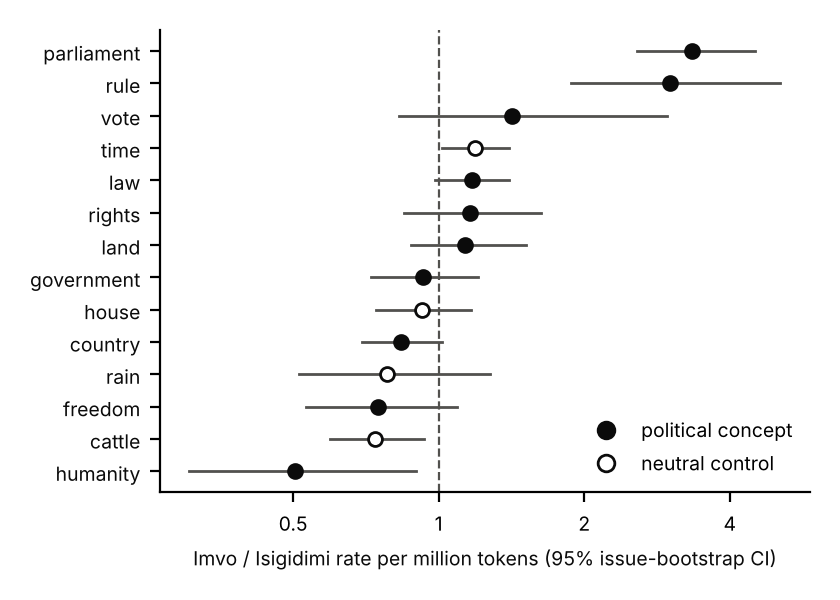
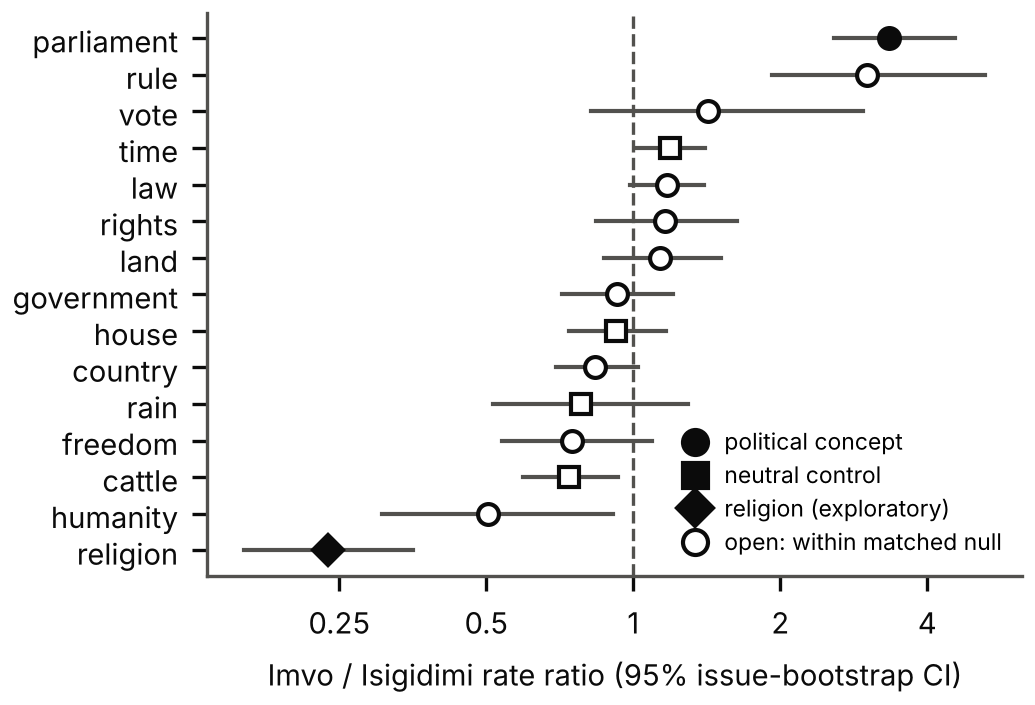
One plot per image: regenerate figures at native size
Replace the multi-panel figures with six single-plot images, each drawn at the size
it is used in the paper; paper.tex places them side by side without rescaling.

Claude-Session: https://claude.ai/code/session_01HjGapPgXs2nXn4XaJz3uNP

Changed region(s): [[0.0, 0.03, 0.9905, 0.99], [0.7429, 0.87, 0.7738, 0.9]]

diff --git a/src/07_figures.py b/src/07_figures.py
@@ -1,4 +1,5 @@
-"""Figures for the write-up (salience + framing per concept, global null, fertility)."""
+"""Figures for the write-up: ONE plot per image, each drawn at the size it is used in the paper
+(no rescaling): half-page plots 3.45 x 2.5 in, third-page plots 2.3 x 1.8 in."""
 import numpy as np
 import pandas as pd
 import matplotlib
@@ -7,130 +8,114 @@ import matplotlib.pyplot as plt
 
 from common import OUT
 
-INK, MUTED, GRID = "#0b0b0b", "#52514e", "#e6e5e1"
-BLUE, ORANGE, AQUA = "#2a78d6", "#eb6834", "#1baf7a"      # validated categorical slots 1-3
+INK, MUTED = "#0b0b0b", "#52514e"
+BLUE, ORANGE = "#2a78d6", "#eb6834"          # validated categorical slots 1-2 (Isigidimi, Imvo)
 plt.rcParams.update({"font.size": 7, "axes.edgecolor": MUTED, "axes.labelcolor": INK,
                      "xtick.color": INK, "ytick.color": INK, "axes.spines.top": False,
-                     "axes.spines.right": False})
+                     "axes.spines.right": False, "savefig.dpi": 300})
+MARK = {"theory": "o", "control": "s", "exploratory": "D"}
 
 
-def two_part():
+def _salience_table():
     sal = pd.read_csv(OUT / "salience.csv")
-    fc = pd.read_csv(OUT / "framing_concepts.csv")
-    fc = fc[fc.measure == "profile"].set_index("concept")
     sal["group"] = sal.concept.str.split(":").str[0]
     sal["name"] = sal.concept.str.split(":").str[1]
-    order = sal.sort_values("ratio")["name"].tolist()          # bottom -> top
-    mk = {"theory": "o", "control": "s", "exploratory": "D"}
-    fig, (a, b) = plt.subplots(1, 2, figsize=(7.0, 2.0), dpi=200, sharey=True, gridspec_kw={"wspace": 0.08})
+    return sal, sal.sort_values("ratio")["name"].tolist()          # bottom -> top
+
+
+def salience():
+    sal, order = _salience_table()
+    fig, ax = plt.subplots(figsize=(3.45, 2.35), layout="constrained")
     for i, n in enumerate(order):
         r = sal[sal.name == n].iloc[0]
-        sig = r.pseudo_p < 0.05
-        a.plot([r.ci_lo, r.ci_hi], [i, i], color=MUTED, lw=1)
-        a.plot(r.ratio, i, mk[r.group], ms=5, mfc=INK if sig else "white", mec=INK, mew=1)
+        ax.plot([r.ci_lo, r.ci_hi], [i, i], color=MUTED, lw=1)
+        ax.plot(r.ratio, i, MARK[r.group], ms=5, mfc=INK if r.pseudo_p < 0.05 else "white", mec=INK, mew=1)
+    ax.axvline(1, color=MUTED, lw=0.8, ls="--")
+    ax.set_xscale("log"); ax.set_xticks([0.25, 0.5, 1, 2, 4]); ax.set_xticklabels(["0.25", "0.5", "1", "2", "4"])
+    ax.minorticks_off()
+    ax.set_yticks(range(len(order))); ax.set_yticklabels(order)
+    ax.set_xlabel("Imvo / Isigidimi rate ratio (95% issue-bootstrap CI)")
+    handles = [plt.Line2D([], [], ls="", marker=m, mfc=INK, mec=INK, label=l) for l, m in
+               (("political concept", "o"), ("neutral control", "s"), ("religion (exploratory)", "D"))]
+    handles.append(plt.Line2D([], [], ls="", marker="o", mfc="white", mec=INK, label="open: within matched null"))
+    ax.legend(handles=handles, loc="lower right", frameon=False, fontsize=5.5, handletextpad=0.3, labelspacing=0.25)
+    fig.savefig(OUT / "fig_salience.png")
+
+
+def framing():
+    sal, order = _salience_table()
+    fc = pd.read_csv(OUT / "framing_concepts.csv")
+    fc = fc[fc.measure == "profile"].set_index("concept")
+    fig, ax = plt.subplots(figsize=(3.45, 2.35), layout="constrained")
+    for i, n in enumerate(order):
+        g = sal[sal.name == n].iloc[0].group
         if n in fc.index:
             f = fc.loc[n]
-            b.plot(f.percentile, i, mk[r.group], ms=5, mfc=INK if (f.p_greater < 0.05) else "white", mec=INK, mew=1)
+            ax.plot(f.percentile, i, MARK[g], ms=5, mfc=INK if f.p_greater < 0.05 else "white", mec=INK, mew=1)
         else:
-            b.text(0.5, i, "too rare / seed word", ha="center", va="center", fontsize=6, color=MUTED, style="italic",
-                   bbox=dict(fc="white", ec="none", pad=1.5))
-    a.axvline(1, color=MUTED, lw=0.8, ls="--"); b.axvline(0.5, color=MUTED, lw=0.8, ls="--")
-    a.set_xscale("log"); a.set_xticks([0.25, 0.5, 1, 2, 4]); a.set_xticklabels(["0.25", "0.5", "1", "2", "4"]); a.minorticks_off()
-    a.set_yticks(range(len(order))); a.set_yticklabels(order, color=INK)
-    a.set_xlabel("Salience: Imvo / Isigidimi rate\n(95% issue-bootstrap CI)")
-    b.set_xlim(-0.02, 1.02); b.set_xlabel("Framing: percentile of the concept's profile shift\namong 2000 frequency-matched word sets")
-    a.set_title("(a) How often", loc="left", fontsize=7.5, color=INK); b.set_title("(b) How differently", loc="left", fontsize=7.5, color=INK)
-    b.tick_params(axis="y", left=False)
-    fig.savefig(OUT / "fig_two_part.png", bbox_inches="tight")
+            ax.text(0.5, i, "too rare / seed word", ha="center", va="center", fontsize=5.5, color=MUTED, style="italic",
+                    bbox=dict(fc="white", ec="none", pad=1.2))
+    ax.axvline(0.5, color=MUTED, lw=0.8, ls="--")
+    ax.set_xlim(-0.02, 1.02); ax.set_ylim(-0.7, len(order) - 0.3)
+    ax.set_yticks(range(len(order))); ax.set_yticklabels(order)
+    ax.set_xlabel("Percentile of profile shift among 2000\nfrequency-matched word sets")
+    fig.savefig(OUT / "fig_framing.png")
+
+
+def yearly(concept, fname, labels):
+    d = pd.read_csv(OUT / "salience_yearly.csv")
+    fig, ax = plt.subplots(figsize=(2.3, 1.6), layout="constrained")
+    for paper, col in (("ISIG", BLUE), ("IMVO", ORANGE)):
+        g = d[(d.paper == paper) & (d.concept == concept)].set_index("year").reindex(range(1870, 1895))
+        ax.fill_between(g.index, g.ci_lo, g.ci_hi, color=col, alpha=0.15, lw=0)
+        ax.plot(g.index, g.per_M, "-o", color=col, lw=1.0, ms=2)
+    ax.axvspan(1880.5, 1883.5, color="#c3c2b7", alpha=0.45, lw=0)
+    ax.axvspan(1883.5, 1884.75, color=BLUE, alpha=0.12, lw=0)
+    ax.text(1882, ax.get_ylim()[1] * 0.97, "Jabavu 1881-83\n(unconfirmed)", rotation=90, fontsize=5, color=MUTED,
+            ha="center", va="top")
+    ax.text(*labels["ISIG"], "Isigidimi", fontsize=6.5, color=INK)
+    ax.text(*labels["IMVO"], "Imvo", fontsize=6.5, color=INK)
+    ax.set_xlim(1869, 1896); ax.set_xticks([1870, 1880, 1890]); ax.tick_params(labelsize=6.5)
+    ax.set_ylabel("per million tokens", fontsize=6.5)
+    fig.savefig(OUT / fname)
+
+
+def tokenizer():
+    f = pd.read_csv(OUT / "fertility.csv")
+    cond = ["modern", "modern, historical spelling", "Isigidimi 1884-88"]
+    fig, ax = plt.subplots(figsize=(2.3, 1.6), layout="constrained")
+    for tok, lab, m_ in (("serengeti", "Serengeti", "s"), ("xlm-roberta-base", "XLM-R", "o"), ("mbert-cased", "mBERT", "^")):
+        s_ = f[f.tokenizer == tok].set_index("condition").loc[cond, "subwords_per_100_chars"]
+        pct = 100 * (s_ / s_.iloc[0] - 1)
+        ax.plot(range(3), pct.values, "-" + m_, color=INK, lw=1, ms=3.5)
+        ax.text(2.1, pct.values[2], lab, fontsize=6.5, color=INK, va="center")
+    ax.axhline(0, color=MUTED, lw=0.6)
+    ax.set_xticks(range(3)); ax.set_xticklabels(["modern", "old\nspelling", "historical"], fontsize=6.5)
+    ax.set_xlim(-0.2, 3.1); ax.tick_params(labelsize=6.5)
+    ax.set_ylabel("subwords per character,\n% vs modern", fontsize=6.5)
+    fig.savefig(OUT / "fig_tokenizer_cost.png")
 
 
 def global_null():
     raw = np.load(OUT / "framing_raw.npz", allow_pickle=True)
     real, null, probe = raw["real_profile"], raw["null_profile"], raw["probe"]
     nm, rm = null[:, probe].mean(1), real[:, probe].mean(1)
-    fig, ax = plt.subplots(figsize=(3.3, 1.9), dpi=200)
+    fig, ax = plt.subplots(figsize=(3.45, 2.0), layout="constrained")
     lo, hi = min(nm.min(), rm.min()), max(nm.max(), rm.max())
     ax.hist(nm, bins=np.linspace(lo - 0.01, hi + 0.01, 40), color="#c3c2b7", edgecolor="white", lw=0.5)
     for v in rm:
         ax.axvline(v, color=INK, lw=0.9)
     top = ax.get_ylim()[1]
-    ax.set_ylim(0, top * 1.35)
-    ax.text(nm.mean(), top * 1.3, "permutation null\n(50 permutations)", fontsize=6.5, color=MUTED, va="top", ha="center")
-    ax.set_xlim(lo - 0.02, hi + 0.075)
+    ax.set_xlim(lo - 0.02, hi + 0.075); ax.set_ylim(0, top * 1.35)
+    ax.text(lo - 0.012, top * 1.3, "permutation null\n(50 permutations)", fontsize=6.5, color=MUTED, va="top", ha="left")
     ax.text(hi + 0.008, top * 1.3, "real: 10\nImvo draws", fontsize=6.5, color=INK, va="top", ha="left")
     ax.set_xlabel("Mean profile shift (1 - r) over probe words"); ax.set_ylabel("permutations")
-    fig.savefig(OUT / "fig_global_null.png", bbox_inches="tight")
-
-
-def jabavu():
-    d = pd.read_csv(OUT / "salience_yearly.csv")
-    fig, axes = plt.subplots(1, 2, figsize=(6.8, 2.4), dpi=200, sharex=True)
-    for ax, concept, title in zip(axes, ("religion", "parliament"), ("(a) religious vocabulary", "(b) parliamentary vocabulary")):
-        for paper, col, lab in (("ISIG", BLUE, "Isigidimi"), ("IMVO", ORANGE, "Imvo")):
-            g = d[(d.paper == paper) & (d.concept == concept)].set_index("year").reindex(range(1870, 1895))
-            ax.fill_between(g.index, g.ci_lo, g.ci_hi, color=col, alpha=0.15, lw=0)
-            ax.plot(g.index, g.per_M, "-o", color=col, lw=1.1, ms=2.5)
-            last = g.per_M.last_valid_index()
-            ax.text(last + 0.4, g.per_M[last], lab, fontsize=6.5, color=INK, va="center")
-        ax.axvspan(1880.5, 1883.5, color="#c3c2b7", alpha=0.45, lw=0)
-        ax.set_title(title, loc="left", fontsize=7.5, color=INK)
-        ax.set_xlim(1869, 1898); ax.set_ylabel("per million tokens")
-    axes[0].text(1882, axes[0].get_ylim()[1] * 0.97, "Jabavu's\nyears\n(provisional)", fontsize=5.5, color=MUTED, ha="center", va="top")
-    fig.tight_layout()
-    fig.savefig(OUT / "fig_jabavu.png", bbox_inches="tight")
-
-
-def combo():
-    """Figure 2 of the paper: religion and parliament over time (a, b) and tokenizer cost (c)."""
-    d = pd.read_csv(OUT / "salience_yearly.csv")
-    f = pd.read_csv(OUT / "fertility.csv")
-    fig, axes = plt.subplots(1, 3, figsize=(7.0, 1.45), dpi=200, gridspec_kw={"width_ratios": [1, 1, 0.95], "wspace": 0.42})
-    for ax, concept, title in zip(axes[:2], ("religion", "parliament"), ("(a) religious vocabulary", "(b) parliamentary vocabulary")):
-        for paper, col, lab in (("ISIG", BLUE, "Isigidimi"), ("IMVO", ORANGE, "Imvo")):
-            g = d[(d.paper == paper) & (d.concept == concept)].set_index("year").reindex(range(1870, 1895))
-            ax.fill_between(g.index, g.ci_lo, g.ci_hi, color=col, alpha=0.15, lw=0)
-            ax.plot(g.index, g.per_M, "-o", color=col, lw=1.0, ms=2)
-        ax.axvspan(1880.5, 1883.5, color="#c3c2b7", alpha=0.45, lw=0)
-        ax.axvspan(1883.5, 1884.75, color=BLUE, alpha=0.12, lw=0)
-        pos = {("religion", "ISIG"): (1870.5, 4300), ("religion", "IMVO"): (1888.5, 1300),
-               ("parliament", "ISIG"): (1870.5, 400), ("parliament", "IMVO"): (1890.5, 1250)}
-        ax.text(*pos[(concept, "ISIG")], "Isigidimi", fontsize=6, color=INK)
-        ax.text(*pos[(concept, "IMVO")], "Imvo", fontsize=6, color=INK)
-        ax.set_title(title, loc="left", fontsize=7, color=INK)
-        ax.set_xlim(1869, 1896); ax.set_xticks([1870, 1880, 1890]); ax.tick_params(labelsize=6)
-    axes[0].set_ylabel("per million tokens", fontsize=6.5)
-    ax = axes[2]
-    cond = ["modern", "modern, historical spelling", "Isigidimi 1884-88", "Imvo 1884-88 (draw)"]
-    for tok, lab, m_ in (("serengeti", "Serengeti", "s"), ("xlm-roberta-base", "XLM-R", "o"), ("mbert-cased", "mBERT", "^")):
-        s_ = f[f.tokenizer == tok].set_index("condition").loc[cond, "subwords_per_100_chars"]
-        pct = 100 * (s_ / s_.iloc[0] - 1)
-        ax.plot(range(3), pct.values[:3], "-" + m_, color=INK, lw=1, ms=3.5)
-        ax.text(2.08, pct.values[2], lab, fontsize=6, color=INK, va="center")
-    ax.axhline(0, color=MUTED, lw=0.6)
-    ax.set_xticks(range(3)); ax.set_xticklabels(["modern", "old\nspelling", "historical"], fontsize=6)
-    ax.set_xlim(-0.2, 3.1); ax.tick_params(labelsize=6)
-    ax.set_title("(c) tokenizer cost", loc="left", fontsize=7, color=INK)
-    ax.set_ylabel("subwords/char, % vs modern", fontsize=6.5)
-    fig.savefig(OUT / "fig_combo.png", bbox_inches="tight")
-
-
-def fertility():
-    d = pd.read_csv(OUT / "fertility.csv")
-    cond = ["modern", "modern, historical spelling", "Isigidimi 1884-88", "Imvo 1884-88 (draw)"]
-    labels = ["(a) modern", "(b) modern,\nold spelling", "(c) Isigidimi", "(c) Imvo"]
-    cols = {"xlm-roberta-base": BLUE, "serengeti": ORANGE, "mbert-cased": AQUA}
-    fig, ax = plt.subplots(figsize=(3.3, 2.1), dpi=200)
-    for tok, c in cols.items():
-        s = d[d.tokenizer == tok].set_index("condition").loc[cond, "subwords_per_100_chars"]
-        pct = 100 * (s / s.iloc[0] - 1)
-        ax.plot(range(4), pct.values, "-o", color=c, lw=1.2, ms=4)
-        ax.text(3.08, pct.values[-1], {"xlm-roberta-base": "XLM-R", "serengeti": "Serengeti", "mbert-cased": "mBERT"}[tok],
-                fontsize=6.5, color=INK, va="center")
-    ax.axhline(0, color=MUTED, lw=0.6)
-    ax.set_xticks(range(4)); ax.set_xticklabels(labels, fontsize=6); ax.set_xlim(-0.2, 4.0)
-    ax.set_ylabel("subwords per character,\n% change vs modern")
-    fig.savefig(OUT / "fig_fertility.png", bbox_inches="tight")
+    fig.savefig(OUT / "fig_global_null.png")
 
 
 if __name__ == "__main__":
-    two_part(); global_null(); jabavu(); fertility(); combo(); print("figures saved")
+    salience(); framing()
+    yearly("religion", "fig_religion_by_year.png", {"ISIG": (1885.5, 3400), "IMVO": (1888.5, 1300)})
+    yearly("parliament", "fig_parliament_by_year.png", {"ISIG": (1870.5, 400), "IMVO": (1890.5, 1250)})
+    tokenizer(); global_null()
+    print("figures saved")

diff --git a/paper/paper.tex b/paper/paper.tex
@@ -43,25 +43,28 @@ The IsiXhosa Intellectual Traditions archive \citep{schoots2023} digitises South
 
 \begin{figure*}[t]
 \centering
-\includegraphics[width=0.95\textwidth]{fig_two_part.png}
-\caption{Salience (a) and framing (b). Circles: political concepts; squares: neutral controls; diamond: religion (exploratory); filled = beyond 2000 frequency-matched sets ($p<0.05$). (a) Imvo/Isigidimi rate ratio, 95\% bootstrap CI. (b) Percentile of the concept's profile shift among matched word sets; none is beyond chance. Too-rare concepts and seed words omitted.}
+\includegraphics[width=3.45in]{fig_salience.png}\hfill
+\includegraphics[width=3.45in]{fig_framing.png}
+\caption{Salience (left) and framing (right) of the same concepts. Left: Imvo/Isigidimi rate ratio with 95\% issue-bootstrap CI; filled = beyond 2000 frequency-matched pseudo-concepts ($p<0.05$). Right: percentile of the concept's profile shift among 2000 frequency-matched word sets; none is beyond chance. Too-rare concepts and seed words are omitted.}
 \label{fig:two}
 \end{figure*}
 
 \begin{figure*}[t]
 \centering
-\includegraphics[width=0.95\textwidth]{fig_combo.png}
-\caption{(a,b) Rate per million tokens by year. Grey: Jabavu's Isigidimi years (1881--83; secondary sources, unconfirmed); blue: Isigidimi fortnightly (Jul 1883--Sep 1884); 1886 Isigidimi missing. (c) Subwords per character relative to modern text: aspiration-stripped modern text and historical Isigidimi.}
+\includegraphics[width=2.3in]{fig_religion_by_year.png}\hfill
+\includegraphics[width=2.3in]{fig_parliament_by_year.png}\hfill
+\includegraphics[width=2.3in]{fig_tokenizer_cost.png}
+\caption{Religious (left) and parliamentary (right) vocabulary per million tokens by year (blue: Isigidimi, orange: Imvo; grey: Jabavu's Isigidimi years, secondary sources, unconfirmed; light blue: Isigidimi fortnightly, Jul 1883--Sep 1884; 1886 Isigidimi missing). Right-most: subwords per character relative to modern text for aspiration-stripped modern text (``old spelling'') and historical Isigidimi.}
 \label{fig:two2}
 \end{figure*}
 
 \section{Results}
 \looseness=-1
-\textbf{Salience.} Parliamentary vocabulary is 3.3$\times$ as frequent in Imvo (CI 2.6--4.6; pseudo-concept $p=0.011$); religious vocabulary is four times as frequent in Isigidimi (0.24$\times$, CI 0.16--0.35, $p=0.019$); \emph{mbuso} is borderline ($p=0.064$) and nothing else stands out (Fig.~\ref{fig:two}a). In held-out years religion (0.22$\times$, CI 0.18--0.28, $p=0.007$) and parliament (3.5$\times$, $p=0.017$) replicate; government flips (0.93$\to$0.27) and is not interpreted. Isigidimi's religious vocabulary falls from about 5{,}700 to 800 per million tokens in 1876--83; parliamentary vocabulary is absent until 1883 (Fig.~\ref{fig:two2}a,b).
+\textbf{Salience.} Parliamentary vocabulary is 3.3$\times$ as frequent in Imvo (CI 2.6--4.6; pseudo-concept $p=0.011$); religious vocabulary is four times as frequent in Isigidimi (0.24$\times$, CI 0.16--0.35, $p=0.019$); \emph{mbuso} is borderline ($p=0.064$) and nothing else stands out (Fig.~\ref{fig:two}, left). In held-out years religion (0.22$\times$, CI 0.18--0.28, $p=0.007$) and parliament (3.5$\times$, $p=0.017$) replicate; government flips (0.93$\to$0.27) and is not interpreted. Isigidimi's religious vocabulary falls from about 5{,}700 to 800 per million tokens in 1876--83; parliamentary vocabulary is absent until 1883 (Fig.~\ref{fig:two2}, left and centre).
 
-\textbf{Framing.} Mean profile shift between the papers is 0.383 against a permutation null of 0.263, with every real draw beyond all 50 permutations: the spaces differ systematically. This offset touches almost every word, so words are judged against matched sets, where no single concept is detectable (Fig.~\ref{fig:two}b). Pooled, the electoral words (\emph{palamente}, \emph{voti}, \emph{rulumente}) differ by neighbour Jaccard (0.77 vs 0.55 matched, $p=0.016$) and weakly by profile (0.47 vs 0.39, $p=0.087$). Joining disjunctively written forms leaves the global gap unchanged (0.372 vs null 0.250: a gap of 0.122, against 0.120) but sharpens the pooled electoral result (profile 0.47 vs 0.36, $p=0.012$; Jaccard 0.78 vs 0.52, $p=0.001$); this grouping was chosen after the salience results and is uncorrected. The directional hypothesis fails: political concepts lean $+0.22$ towards religious anchors in Isigidimi vs $+0.04$ for matched words ($p=0.33$), and neutral controls move as much ($+0.19$). \emph{Abantu}, significant against the permutation null alone, is an artefact: its neighbours are its own inflections, identical across papers.
+\textbf{Framing.} Mean profile shift between the papers is 0.383 against a permutation null of 0.263, with every real draw beyond all 50 permutations: the spaces differ systematically. This offset touches almost every word, so words are judged against matched sets, where no single concept is detectable (Fig.~\ref{fig:two}, right). Pooled, the electoral words (\emph{palamente}, \emph{voti}, \emph{rulumente}) differ by neighbour Jaccard (0.77 vs 0.55 matched, $p=0.016$) and weakly by profile (0.47 vs 0.39, $p=0.087$). Joining disjunctively written forms leaves the global gap unchanged (0.372 vs null 0.250: a gap of 0.122, against 0.120) but sharpens the pooled electoral result (profile 0.47 vs 0.36, $p=0.012$; Jaccard 0.78 vs 0.52, $p=0.001$); this grouping was chosen after the salience results and is uncorrected. The directional hypothesis fails: political concepts lean $+0.22$ towards religious anchors in Isigidimi vs $+0.04$ for matched words ($p=0.33$), and neutral controls move as much ($+0.19$). \emph{Abantu}, significant against the permutation null alone, is an artefact: its neighbours are its own inflections, identical across papers.
 
-\textbf{Tokenizers.} Per word, historical text looks cheaper only because its words are shorter (6.2 vs 7.4 characters); per character it costs more (Fig.~\ref{fig:two2}c): relative to modern text, stripped spelling adds 0.8\% for XLM-R and historical text 4.1\%; Serengeti 5.4\% and 12.4\%; mBERT $-0.4\%$ and $+1.7\%$. Spelling explains a fifth of XLM-R's gap and 44\% of Serengeti's.
+\textbf{Tokenizers.} Per word, historical text looks cheaper only because its words are shorter (6.2 vs 7.4 characters); per character it costs more (Fig.~\ref{fig:two2}, right): relative to modern text, stripped spelling adds 0.8\% for XLM-R and historical text 4.1\%; Serengeti 5.4\% and 12.4\%; mBERT $-0.4\%$ and $+1.7\%$. Spelling explains a fifth of XLM-R's gap and 44\% of Serengeti's.
 
 \section{Discussion}
 \looseness=-1
